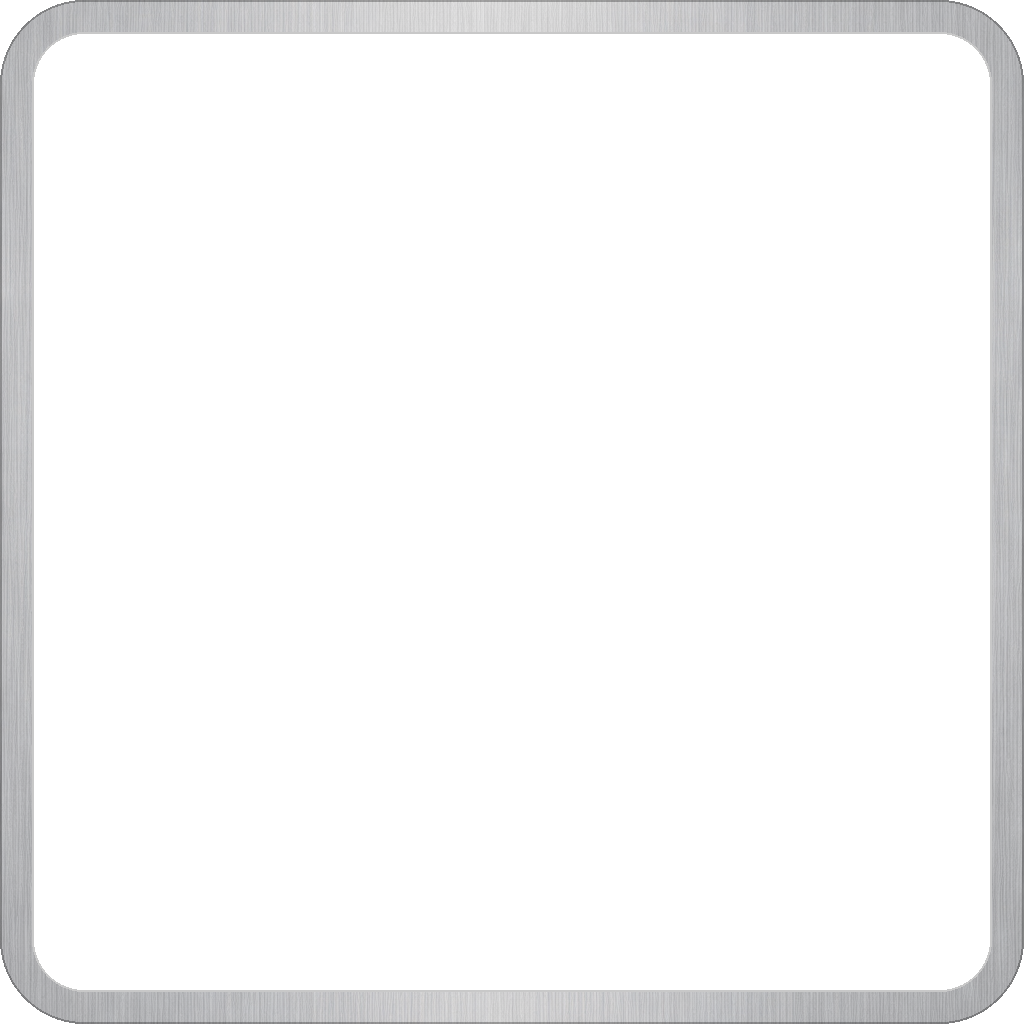
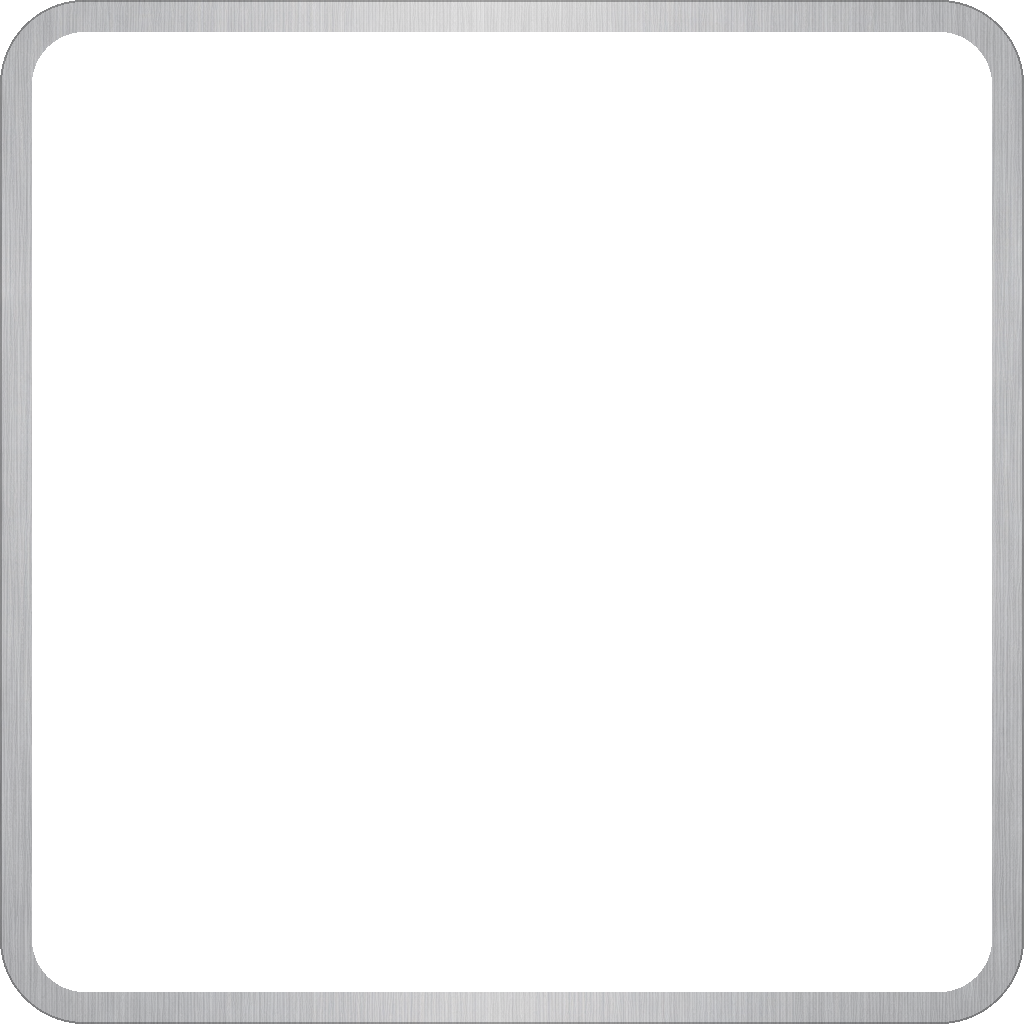
Brushed metal: remove inner stroke to avoid seam

diff --git a/scripts/gen_brushed_metal_frame.py b/scripts/gen_brushed_metal_frame.py
@@ -69,8 +69,8 @@ def main() -> None:
     border_layer.putalpha(border_mask)
     out = Image.alpha_composite(out, border_layer)
 
-    # Subtle outline lines to help it read as a frame (still flat, no lighting).
-    # Outer stroke
+    # Subtle outer outline to help it read as a frame (still flat, no lighting).
+    # Avoid inner strokes: they create a visible seam against the tiled interior.
     outline_outer = Image.new("RGBA", (size, size), (0, 0, 0, 0))
     d = ImageDraw.Draw(outline_outer)
     d.rounded_rectangle(
@@ -80,17 +80,6 @@ def main() -> None:
         width=2,
     )
     out = Image.alpha_composite(out, outline_outer)
-
-    # Inner stroke
-    outline_inner = Image.new("RGBA", (size, size), (0, 0, 0, 0))
-    d2 = ImageDraw.Draw(outline_inner)
-    d2.rounded_rectangle(
-        [border_px, border_px, size - 1 - border_px, size - 1 - border_px],
-        radius=max(0, radius_px - border_px),
-        outline=(0, 0, 0, 55),
-        width=2,
-    )
-    out = Image.alpha_composite(out, outline_inner)
 
     os.makedirs(os.path.dirname(DEFAULT_OUT), exist_ok=True)
     out.save(DEFAULT_OUT)
